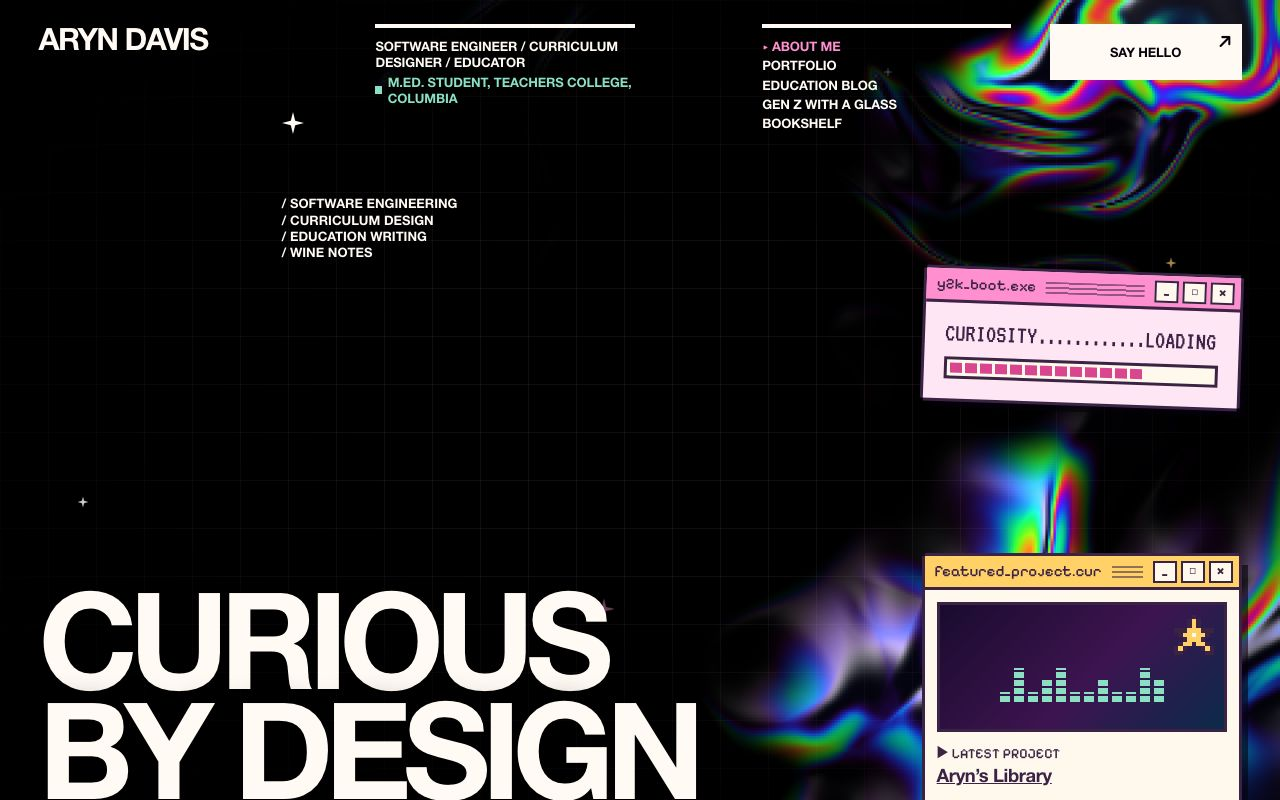
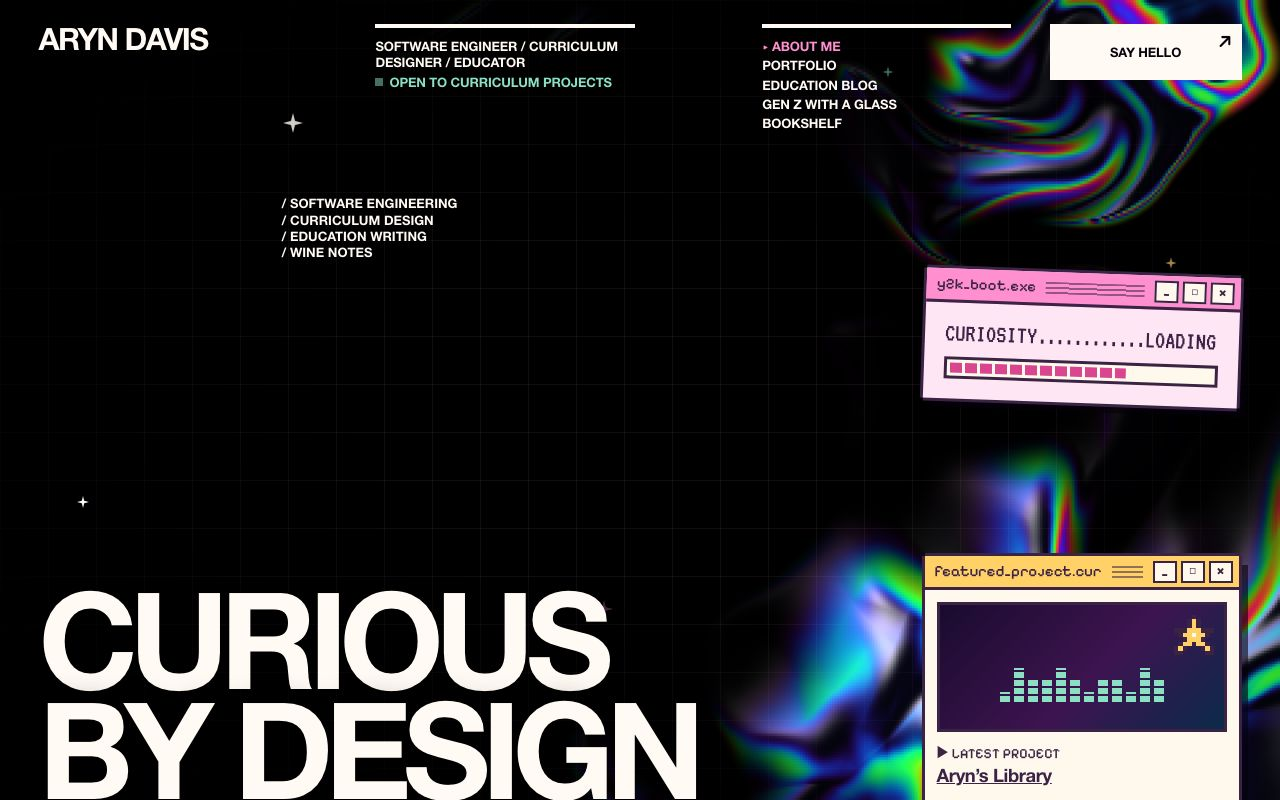
Say 'Made Space Seattle'; status back to open to curriculum projects

diff --git a/src/pages/Home.tsx b/src/pages/Home.tsx
@@ -85,7 +85,7 @@ export default function Home() {
               </p>
               <p>
                 Along the way I’ve designed and taught Python and Django for adult learners, web development courses for CodePath, coding clubs for Black Girls Code, and
-                hand-sewing classes at Made Space. I still build things for fun, like a library catalog for my books and a scrapbook closet that cuts my clothes out of photos.
+                hand-sewing classes at Made Space Seattle. I still build things for fun, like a library catalog for my books and a scrapbook closet that cuts my clothes out of photos.
                 This site has rooms for all of it. Pick a folder below or use the menu up top.
               </p>
               <ul className="quick-facts">

diff --git a/src/site.ts b/src/site.ts
@@ -3,7 +3,7 @@ export const site = {
   name: 'Aryn Davis',
   shortName: 'ARYN DAVIS',
   roles: ['Software engineer', 'Curriculum designer', 'Educator'],
-  status: 'M.Ed. student, Teachers College, Columbia',
+  status: 'Open to curriculum projects',
   // Forwards to my personal inbox (email forwarding on the domain), so the real address stays private.
   email: 'hello@arynlynn.com',
   linkedin: 'https://www.linkedin.com/in/aryn-davis',
